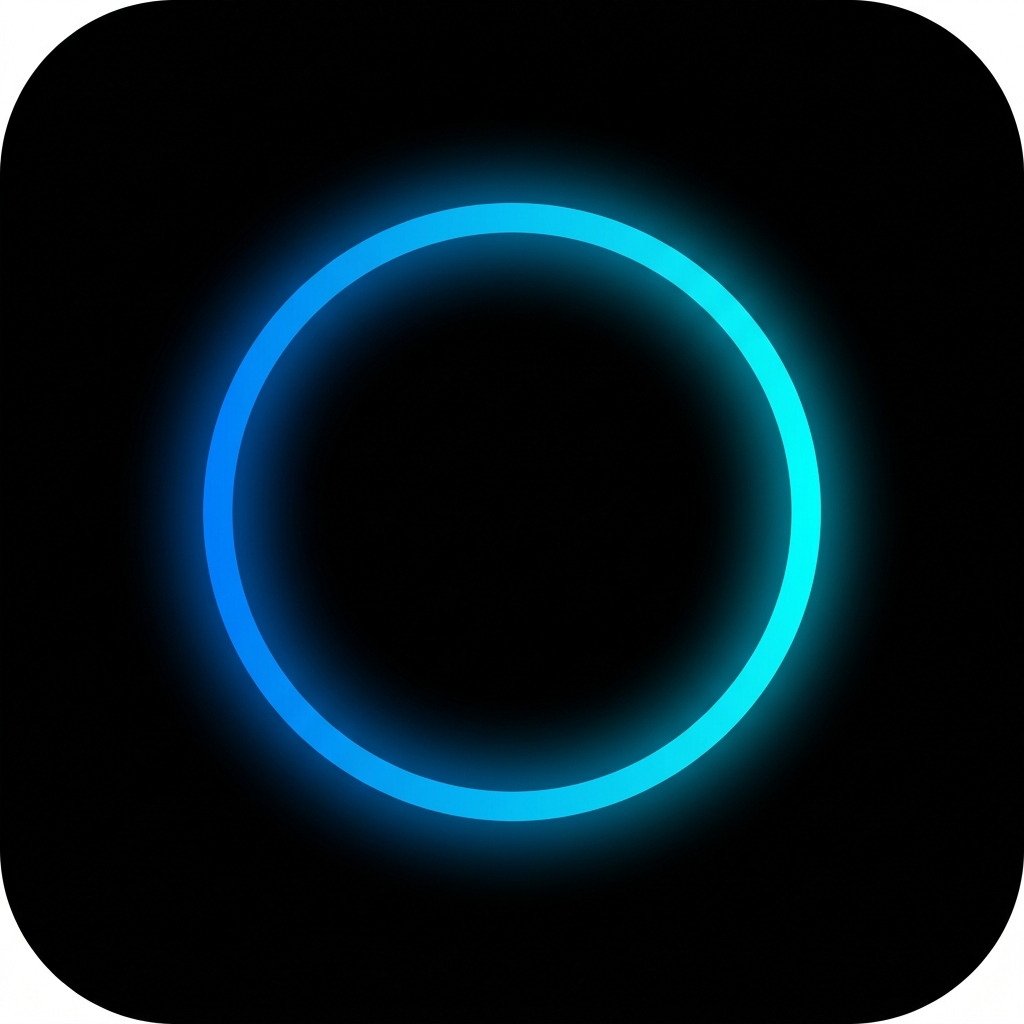
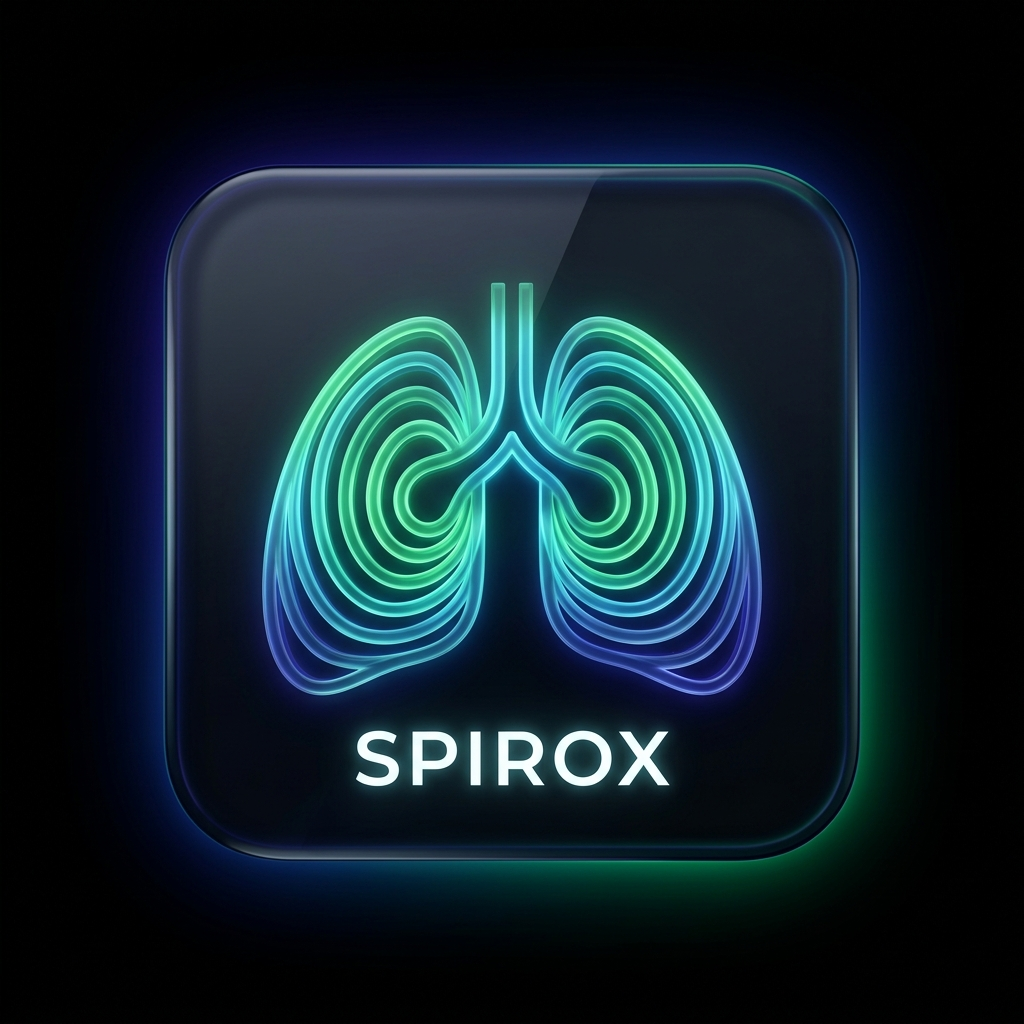
chore: rename app branding, assets, and storage keys to Spirox, and update SessionComplete UI to latest model

diff --git a/apps/web/src/features/breathing/views/SessionComplete.tsx b/apps/web/src/features/breathing/views/SessionComplete.tsx
@@ -91,9 +91,13 @@ export function SessionComplete({ exercise, duration, cycles, onHome, onRestart 
       initial={{ opacity: 0 }}
       animate={{ opacity: 1 }}
       exit={{ opacity: 0 }}
-      className="fixed inset-0 bg-black z-[300] flex flex-col items-center justify-center p-6 overflow-y-auto scrollbar-hide"
+      className="fixed inset-0 bg-black/95 z-[300] flex flex-col items-center justify-center p-6 overflow-y-auto scrollbar-hide backdrop-blur-md"
     >
-      <div className="max-w-[480px] w-full space-y-8 py-10">
+      {/* Decorative Premium Glow Elements */}
+      <div className="absolute -top-20 -right-20 w-80 h-80 bg-indigo-500/10 blur-[100px] pointer-events-none rounded-full" />
+      <div className="absolute -bottom-20 -left-20 w-80 h-80 bg-emerald-500/10 blur-[100px] pointer-events-none rounded-full" />
+
+      <div className="max-w-[480px] w-full space-y-8 py-10 z-10 relative">
         {/* Lottie Celebration */}
         <div className="relative h-64 flex items-center justify-center">
           <div className="absolute inset-0 bg-gradient-to-b from-transparent via-white/[0.02] to-transparent pointer-events-none" />
@@ -147,19 +151,34 @@ export function SessionComplete({ exercise, duration, cycles, onHome, onRestart 
             animate={{ opacity: 1, y: 0 }}
             transition={{ delay: 0.9 }}
             onClick={onRestart}
-            className="w-full h-16 rounded-[28px] bg-white text-black font-bold text-sm uppercase tracking-widest shadow-xl shadow-white/5 active:scale-95 transition-all flex items-center justify-center gap-3"
+            className="w-full h-16 rounded-full bg-white text-black font-black text-[12px] uppercase tracking-[0.2em] shadow-[0_0_30px_rgba(255,255,255,0.15)] hover:shadow-[0_0_35px_rgba(255,255,255,0.25)] active:scale-95 transition-all duration-300 flex items-center justify-center gap-3 relative overflow-hidden cursor-pointer"
           >
-            <RotateCcw size={18} />
-            Restart Session
+            <span className="relative z-10 flex items-center gap-2">
+              <RotateCcw size={16} strokeWidth={3} />
+              Restart Session
+            </span>
+            {/* Animated Premium Gloss Shimmer */}
+            <motion.div
+              initial={{ x: '-100%' }}
+              animate={{ x: '100%' }}
+              transition={{
+                repeat: Infinity,
+                repeatType: 'loop',
+                duration: 2.5,
+                ease: 'linear',
+              }}
+              className="absolute inset-0 w-full h-full bg-gradient-to-r from-transparent via-black/5 to-transparent pointer-events-none"
+            />
           </motion.button>
+          
           <motion.button
             initial={{ opacity: 0, y: 10 }}
             animate={{ opacity: 1, y: 0 }}
             transition={{ delay: 1 }}
             onClick={onHome}
-            className="w-full h-16 rounded-[28px] bg-white/5 text-white/60 font-bold text-sm uppercase tracking-widest hover:bg-white/10 active:scale-95 transition-all flex items-center justify-center gap-3"
+            className="w-full h-16 rounded-full bg-white/[0.04] border border-white/10 text-white/80 hover:text-white hover:bg-white/[0.08] font-black text-[12px] uppercase tracking-[0.2em] active:scale-95 transition-all duration-300 flex items-center justify-center gap-3 cursor-pointer"
           >
-            <Home size={18} />
+            <Home size={16} strokeWidth={2.5} />
             Return Home
           </motion.button>
         </div>

diff --git a/apps/web/src/features/breathing/hooks/useCustomExercises.ts b/apps/web/src/features/breathing/hooks/useCustomExercises.ts
@@ -5,7 +5,7 @@ import { Exercise } from '../data';
 import { supabase } from '../../../lib/supabaseClient';
 
 
-const STORAGE_KEY = 'inhale_custom_exercises';
+const STORAGE_KEY = 'spirox_custom_exercises';
 
 export interface Badge {
   id: string;
@@ -57,8 +57,8 @@ export function useLibrary() {
         fetchUserProfile(session.user.id);
       } else {
         // Fallback to local storage if logged out
-        const savedName = localStorage.getItem('inhale_user_name') || 'Zen Practitioner';
-        const savedAvatar = localStorage.getItem('inhale_user_avatar');
+        const savedName = localStorage.getItem('spirox_user_name') || 'Zen Practitioner';
+        const savedAvatar = localStorage.getItem('spirox_user_avatar');
         setUserName(savedName);
         setUserAvatar(savedAvatar);
       }
@@ -92,25 +92,25 @@ export function useLibrary() {
       try { setCustomExercises(JSON.parse(savedCustom)); } catch { /* ignore */ }
     }
 
-    const savedFavs = localStorage.getItem('inhale_favorites');
+    const savedFavs = localStorage.getItem('spirox_favorites');
     if (savedFavs) {
       try { setFavorites(JSON.parse(savedFavs)); } catch { /* ignore */ }
     }
 
-    const savedSessions = localStorage.getItem('inhale_sessions');
+    const savedSessions = localStorage.getItem('spirox_sessions');
     if (savedSessions) {
       try { setSessions(JSON.parse(savedSessions)); } catch { /* ignore */ }
     }
 
-    const savedGoals = localStorage.getItem('inhale_custom_goals');
+    const savedGoals = localStorage.getItem('spirox_custom_goals');
     if (savedGoals) {
       try { setCustomGoals(JSON.parse(savedGoals)); } catch { /* ignore */ }
     }
 
-    const savedName = localStorage.getItem('inhale_user_name');
+    const savedName = localStorage.getItem('spirox_user_name');
     if (savedName) setUserName(savedName);
 
-    const savedAvatar = localStorage.getItem('inhale_user_avatar');
+    const savedAvatar = localStorage.getItem('spirox_user_avatar');
     if (savedAvatar) setUserAvatar(savedAvatar);
   }, []);
 
@@ -131,32 +131,32 @@ export function useLibrary() {
       ? favorites.filter(favId => favId !== id)
       : [...favorites, id];
     setFavorites(updated);
-    localStorage.setItem('inhale_favorites', JSON.stringify(updated));
+    localStorage.setItem('spirox_favorites', JSON.stringify(updated));
   };
 
   const recordSession = (exerciseId: string, duration: number) => {
     const newSession = { exerciseId, date: new Date().toISOString(), duration };
     const updated = [...sessions, newSession];
     setSessions(updated);
-    localStorage.setItem('inhale_sessions', JSON.stringify(updated));
+    localStorage.setItem('spirox_sessions', JSON.stringify(updated));
   };
 
   const addCustomGoal = (goal: Omit<CustomGoal, 'currentMinutes'>) => {
     const newGoal = { ...goal, currentMinutes: 0 };
     const updated = [...customGoals, newGoal];
     setCustomGoals(updated);
-    localStorage.setItem('inhale_custom_goals', JSON.stringify(updated));
+    localStorage.setItem('spirox_custom_goals', JSON.stringify(updated));
   };
 
   const deleteCustomGoal = (id: string) => {
     const updated = customGoals.filter(g => g.id !== id);
     setCustomGoals(updated);
-    localStorage.setItem('inhale_custom_goals', JSON.stringify(updated));
+    localStorage.setItem('spirox_custom_goals', JSON.stringify(updated));
   };
 
   const updateUserName = async (name: string) => {
     setUserName(name);
-    localStorage.setItem('inhale_user_name', name);
+    localStorage.setItem('spirox_user_name', name);
 
     if (user) {
       try {
@@ -173,8 +173,8 @@ export function useLibrary() {
 
   const updateAvatar = async (avatar: string | null) => {
     setUserAvatar(avatar);
-    if (avatar) localStorage.setItem('inhale_user_avatar', avatar);
-    else localStorage.removeItem('inhale_user_avatar');
+    if (avatar) localStorage.setItem('spirox_user_avatar', avatar);
+    else localStorage.removeItem('spirox_user_avatar');
 
     if (user) {
       try {

diff --git a/apps/web/src/features/breathing/index.tsx b/apps/web/src/features/breathing/index.tsx
@@ -76,7 +76,7 @@ export function BreathingExercise() {
   // Persistence of selected ambient
   useEffect(() => {
     if (typeof window !== 'undefined') {
-      const savedAmbient = localStorage.getItem('sparox_active_ambient');
+      const savedAmbient = localStorage.getItem('spirox_active_ambient');
       if (savedAmbient && savedAmbient !== 'leaf') {
         soundscape.setActiveSoundscape(savedAmbient as any);
       }
@@ -85,7 +85,7 @@ export function BreathingExercise() {
 
   useEffect(() => {
     if (soundscape.activeSoundscape) {
-      localStorage.setItem('sparox_active_ambient', soundscape.activeSoundscape);
+      localStorage.setItem('spirox_active_ambient', soundscape.activeSoundscape);
     }
   }, [soundscape.activeSoundscape]);
 
@@ -108,12 +108,12 @@ export function BreathingExercise() {
   // Load reminder settings from LocalStorage
   useEffect(() => {
     if (typeof window !== 'undefined') {
-      const enabled = localStorage.getItem('inhale_daily_reminder_enabled') === 'true';
-      const time = localStorage.getItem('inhale_daily_reminder_time') || '08:30';
+      const enabled = localStorage.getItem('spirox_daily_reminder_enabled') === 'true';
+      const time = localStorage.getItem('spirox_daily_reminder_time') || '08:30';
       setDailyReminderEnabled(enabled);
       setDailyReminderTime(time);
 
-      const completed = localStorage.getItem('inhale_onboarding_completed') === 'true';
+      const completed = localStorage.getItem('spirox_onboarding_completed') === 'true';
       setShowOnboarding(!completed);
     } else {
       setShowOnboarding(false);
@@ -143,25 +143,25 @@ export function BreathingExercise() {
         const permission = await Notification.requestPermission();
         if (permission === 'granted') {
           setDailyReminderEnabled(true);
-          localStorage.setItem('inhale_daily_reminder_enabled', 'true');
+          localStorage.setItem('spirox_daily_reminder_enabled', 'true');
           triggerNotification('Reminders Enabled! 🧘', 'You will be notified daily at your scheduled breathing time.');
         } else {
           alert('Notification permission is required to enable daily reminders.');
           setDailyReminderEnabled(false);
-          localStorage.setItem('inhale_daily_reminder_enabled', 'false');
+          localStorage.setItem('spirox_daily_reminder_enabled', 'false');
         }
       } else {
         alert('Notifications are not supported in this browser.');
       }
     } else {
       setDailyReminderEnabled(false);
-      localStorage.setItem('inhale_daily_reminder_enabled', 'false');
+      localStorage.setItem('spirox_daily_reminder_enabled', 'false');
     }
   };
 
   const handleUpdateTime = (time: string) => {
     setDailyReminderTime(time);
-    localStorage.setItem('inhale_daily_reminder_time', time);
+    localStorage.setItem('spirox_daily_reminder_time', time);
   };
 
   // Scheduled Reminder Background Checker (Runs every 30s)
@@ -258,8 +258,8 @@ export function BreathingExercise() {
 
   const handleCompleteOnboarding = (planId: string, name?: string) => {
     if (typeof window !== 'undefined') {
-      localStorage.setItem('inhale_onboarding_completed', 'true');
-      localStorage.setItem('inhale_active_plan', planId);
+      localStorage.setItem('spirox_onboarding_completed', 'true');
+      localStorage.setItem('spirox_active_plan', planId);
       if (name) {
         updateUserName(name);
       }

diff --git a/apps/web/src/features/breathing/views/ProfileView.tsx b/apps/web/src/features/breathing/views/ProfileView.tsx
@@ -155,7 +155,7 @@ export function ProfileView({
     {
       title: 'Support',
       items: [
-        { id: 'about' as SettingsType, icon: Info, label: 'About Sparox', value: 'v1.4.2' },
+        { id: 'about' as SettingsType, icon: Info, label: 'About Spirox', value: 'v1.4.2' },
         { id: 'none' as SettingsType, icon: ExternalLink, label: 'Resource Center', isExternal: true },
       ]
     }
@@ -319,7 +319,7 @@ export function ProfileView({
                 </div>
               </div>
               <div className="text-center">
-                <h4 className="text-xl font-light text-white tracking-tight">Sparox Premium</h4>
+                <h4 className="text-xl font-light text-white tracking-tight">Spirox Premium</h4>
                 <p className="text-[10px] text-white/40 uppercase tracking-[0.3em] font-bold mt-1">Version 1.4.2</p>
               </div>
             </div>
@@ -621,9 +621,9 @@ export function ProfileView({
           <div className="relative z-10 flex flex-col items-start space-y-2">
             <div className="flex items-center gap-2">
               <span className="px-2 py-0.5 rounded-full bg-white text-black text-[8px] font-black uppercase tracking-tighter">Fast Access</span>
-              <h4 className="text-lg font-light text-white tracking-tight">Install Sparox App</h4>
+              <h4 className="text-lg font-light text-white tracking-tight">Install Spirox App</h4>
             </div>
-            <p className="text-xs text-white/50 font-light max-w-[240px]">Add Sparox to your home screen for quick offline access, premium performance, and immersive sessions.</p>
+            <p className="text-xs text-white/50 font-light max-w-[240px]">Add Spirox to your home screen for quick offline access, premium performance, and immersive sessions.</p>
             <div className="pt-2 flex items-center gap-2 text-white">
               <span className="text-[10px] font-black uppercase tracking-widest">Install Now</span>
               <ChevronRight size={14} />
@@ -779,7 +779,7 @@ export function ProfileView({
 
               <div className="space-y-6">
                 <p className="text-sm text-white/50 font-light leading-relaxed">
-                  Safari doesn't support automatic 1-click installations, but you can add Sparox to your home screen in 3 quick steps:
+                  Safari doesn't support automatic 1-click installations, but you can add Spirox to your home screen in 3 quick steps:
                 </p>
                 
                 <div className="space-y-4">

diff --git a/apps/web/src/app/layout.tsx b/apps/web/src/app/layout.tsx
@@ -2,13 +2,13 @@ import type { Metadata, Viewport } from "next";
 import "./globals.css";
 
 export const metadata: Metadata = {
-  title: "Sparox | Breathing Exercises",
+  title: "Spirox | Breathing Exercises",
   description: "A premium breathing exercise app for mindfulness and relaxation.",
   manifest: "/manifest.json",
   appleWebApp: {
     capable: true,
     statusBarStyle: "black",
-    title: "Sparox",
+    title: "Spirox",
   },
 };
 

diff --git a/apps/web/src/features/breathing/views/AuthView.tsx b/apps/web/src/features/breathing/views/AuthView.tsx
@@ -264,7 +264,7 @@ export function AuthView({ onBack, onSuccess }: AuthViewProps) {
               <div className="space-y-1">
                 <h1 className="text-3xl font-light tracking-tight text-white">Reset Password</h1>
                 <p className="text-gray-500 font-light text-xs max-w-[280px] mx-auto leading-relaxed">
-                  Create a strong, secure new password for your Sparox account.
+                  Create a strong, secure new password for your Spirox account.
                 </p>
               </div>
             </div>
@@ -369,7 +369,7 @@ export function AuthView({ onBack, onSuccess }: AuthViewProps) {
               </motion.div>
               <div className="space-y-1">
                 <h1 className="text-3xl font-light tracking-tight text-white">
-                  {mode === 'login' ? 'Welcome Back' : 'Join Sparox'}
+                  {mode === 'login' ? 'Welcome Back' : 'Join Spirox'}
                 </h1>
                 <p className="text-gray-500 font-light text-xs">
                   {mode === 'login' 